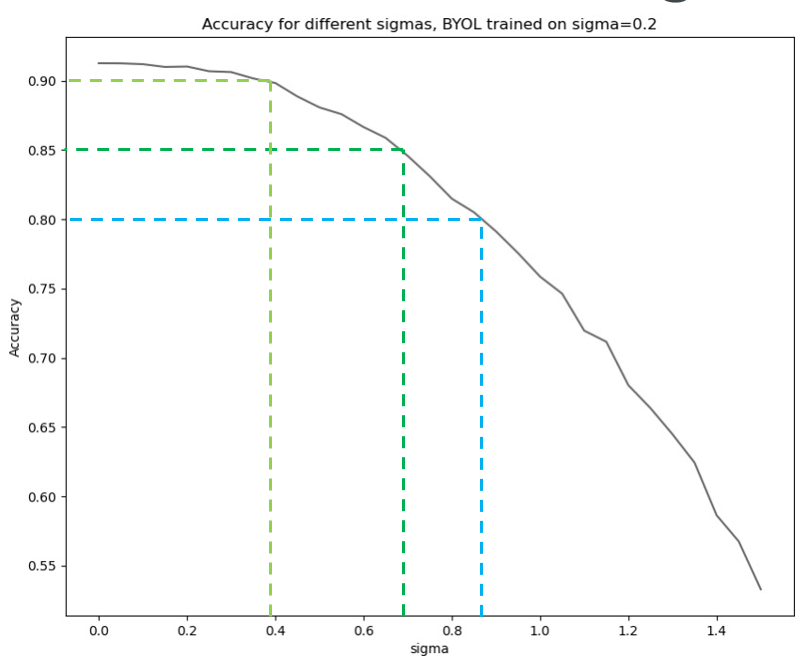
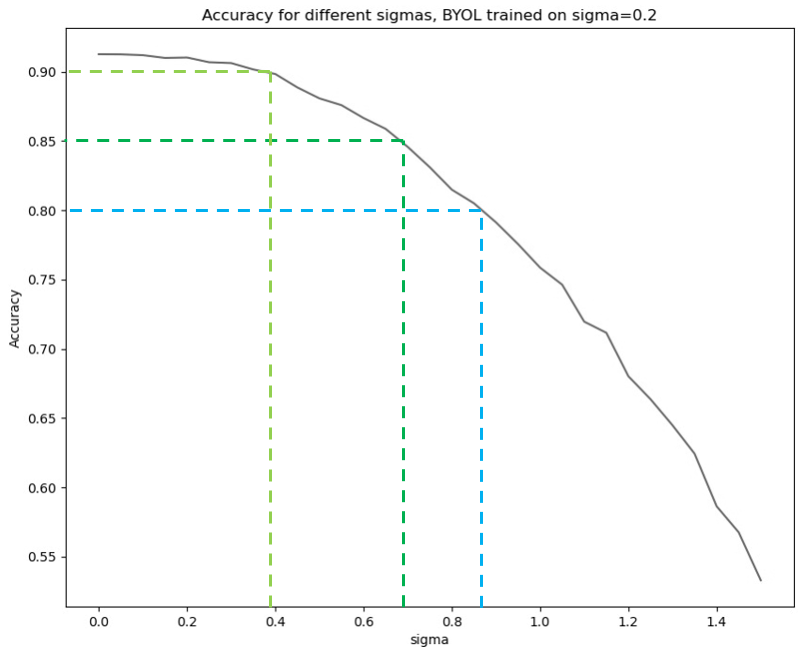
update README.md

diff --git a/README.md b/README.md
@@ -31,8 +31,7 @@ In inference, we show that although the classifier haven't seen noisy images, it
 ### t-SNE on the clean & noisy images' representation 
 ![Image of tsne](./results/tsne_2D_on_embedding_for_presentation_2048.png)
 ###  Accuracy for different sigmas (BYOL trained on sigma = 0.2)
-![Image of accuracy](./assets/model_accuracy.PNG)
-
+<img src="./assets/model_accuracy.PNG" width="350">
 
 ## Installation
 
